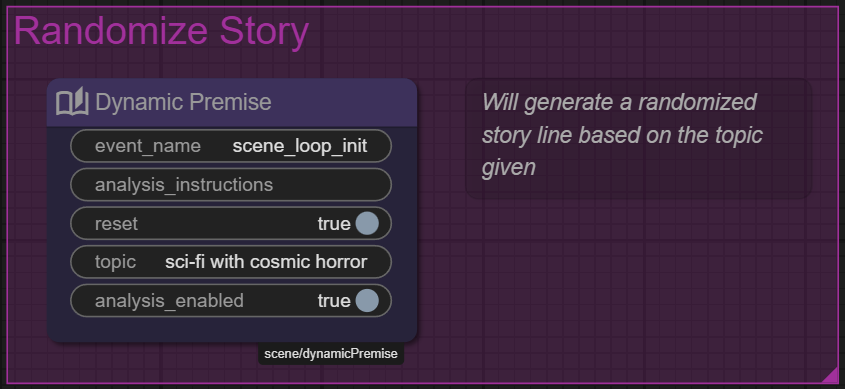
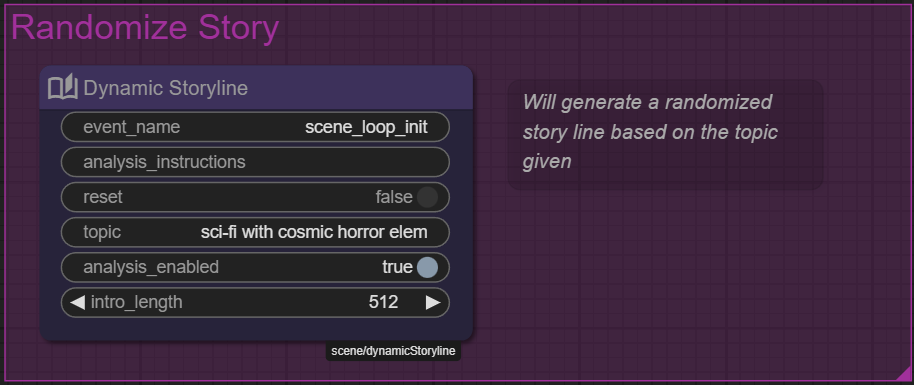
docs

diff --git a/docs/user-guide/howto/infinity-quest-dynamic/index.md b/docs/user-guide/howto/infinity-quest-dynamic/index.md
@@ -3,9 +3,9 @@
 This tutorial will guide you through creating a dynamic story generator using Talemate's node editor. You'll learn how to build a system that automatically creates unique story introductions based on random themes, with AI-powered analysis to make each story engaging and coherent.
 
 !!! info "Tutorial origins"
-    This tutorial documents some of the process of porting the original Infinity Quest project from its template-based system to Talemate's new node editor. The end result of this port is the `Dynamic Premise` node, which is now available in Talemate v0.30 and later. Although there are some final improvements in the module that are not covered in this tutorial.
+    This tutorial documents some of the process of porting the original Infinity Quest project from its template-based system to Talemate's new node editor. The end result of this port is the `Dynamic Storyline` node, which is now available in Talemate v0.30 and later. Although there are some final improvements in the module that are not covered in this tutorial.
 
-    ![Dynamic Premise Node](./img/overview.png)
+    ![Dynamic Storyline Node](./img/overview.png)
 
 The tutorial follows a practical learning path:
 
